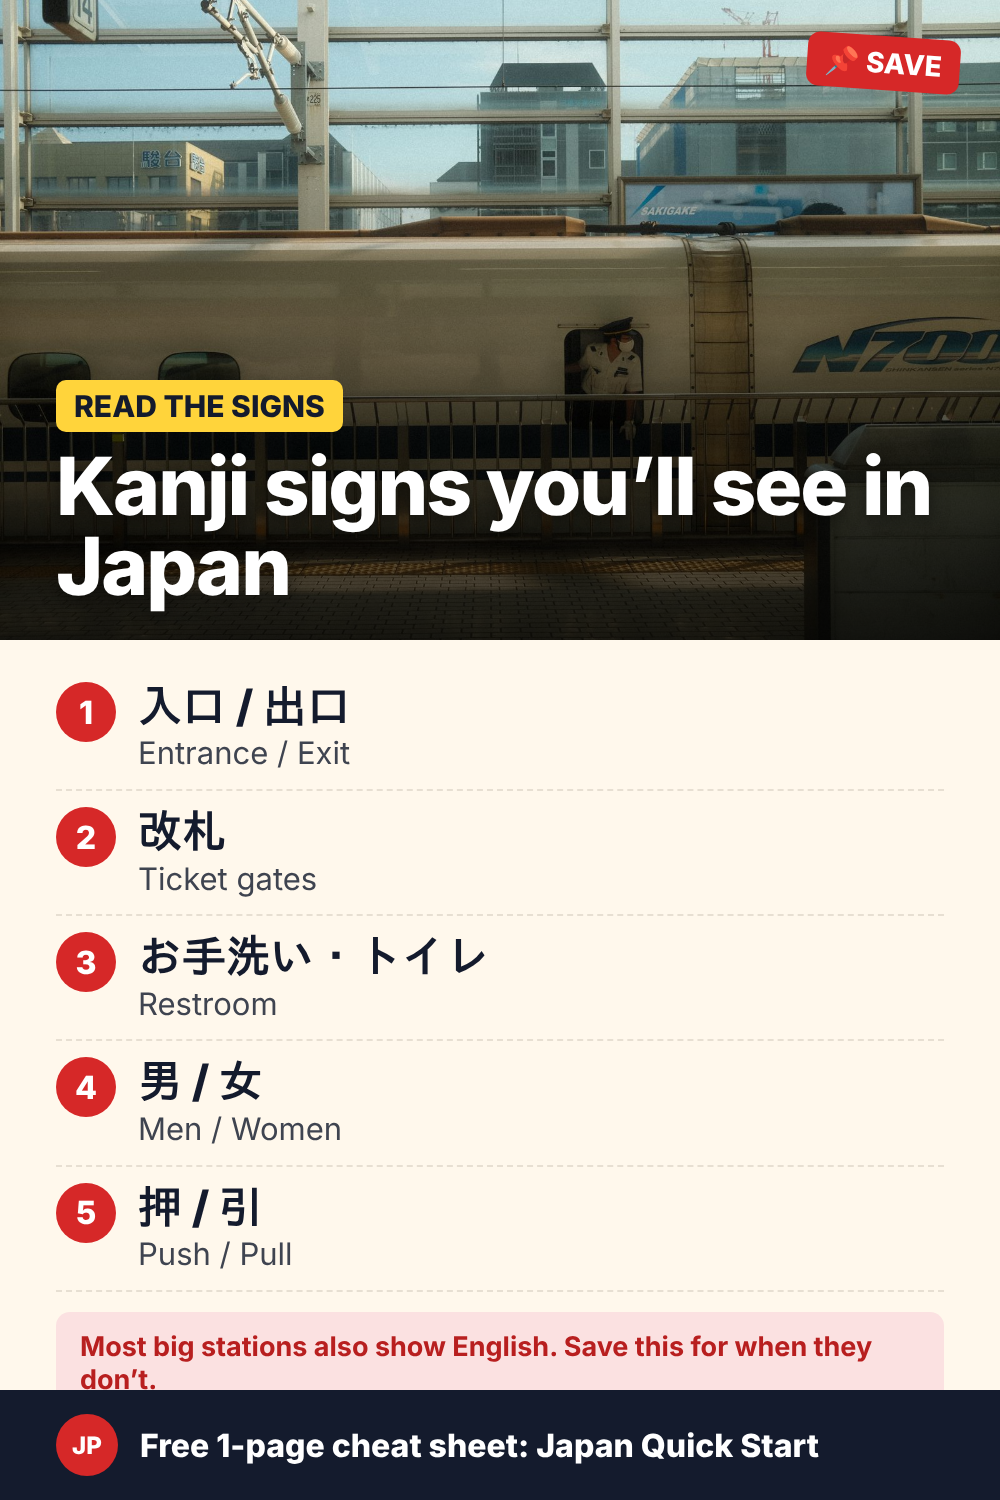
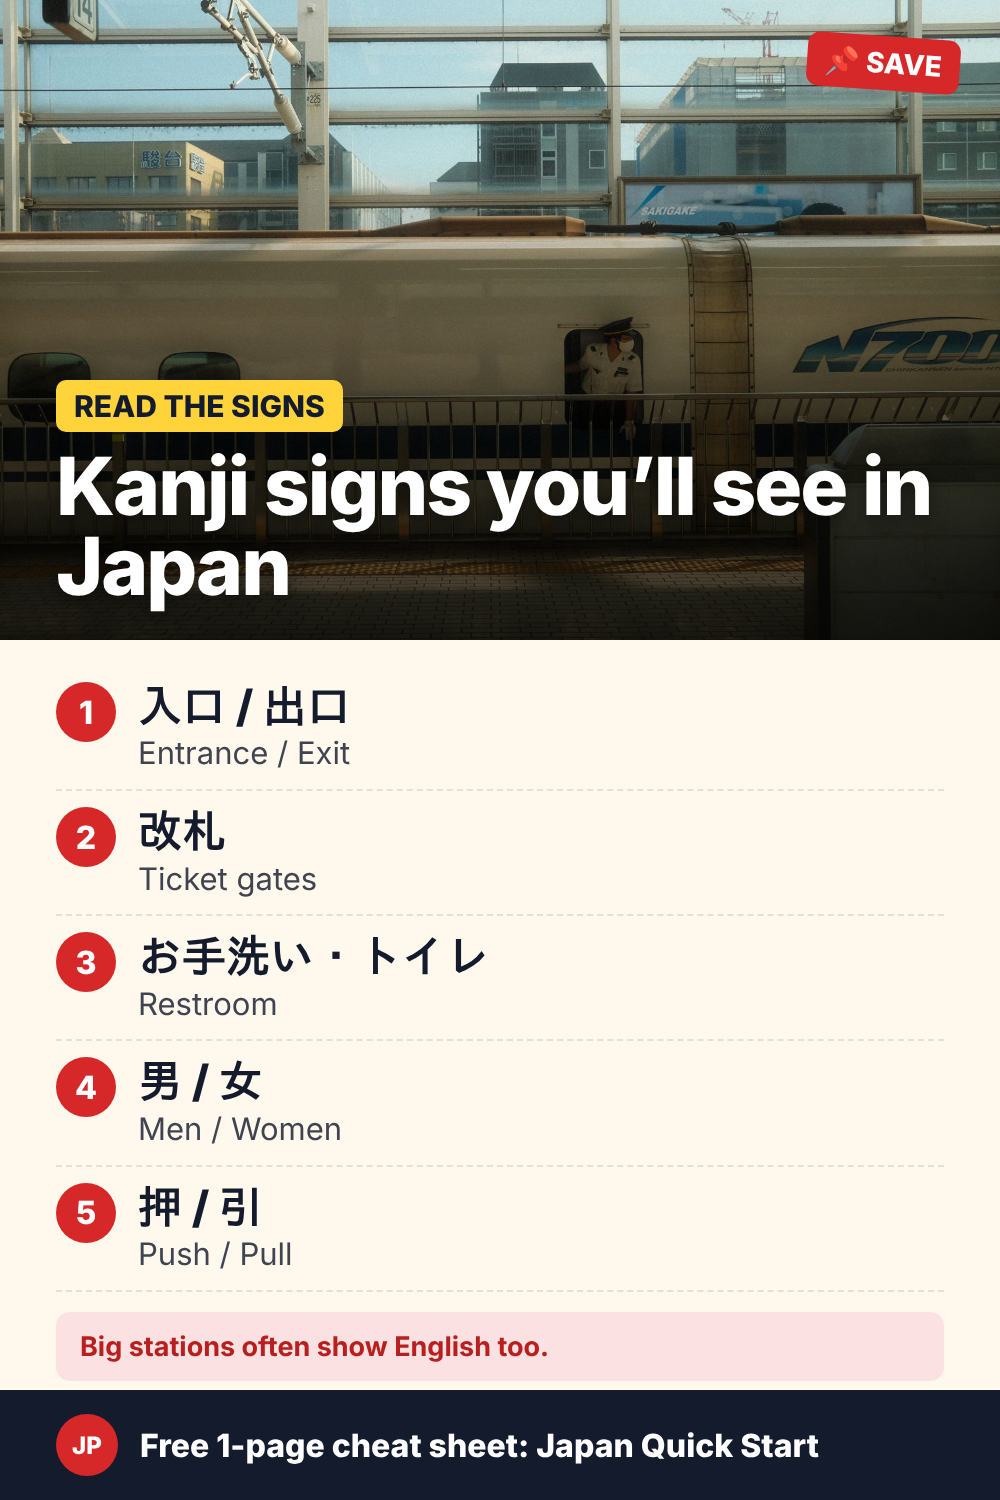
Fix kanji pin fit
Claude-Session: https://claude.ai/code/session_01TjagRrtcak9M1F67RG8mqZ

Changed region(s): [[0.062, 0.8893, 0.868, 0.9507]]

diff --git a/tools/build_photo_pins_1025.py b/tools/build_photo_pins_1025.py
@@ -11,7 +11,7 @@ PINS=[
    ('改札','Ticket gates'),
    ('お手洗い・トイレ','Restroom'),
    ('男 / 女','Men / Women'),
-   ('押 / 引','Push / Pull')],'Most big stations also show English. Save this for when they don’t.',FREE),
+   ('押 / 引','Push / Pull')],'Big stations often show English too.',FREE),
  ('pin-shrine-or-temple','px-31193736.jpg','center 55%','SHRINE OR TEMPLE?','How to tell them apart',[
    ('Torii gate?','A torii usually means a Shinto shrine.'),
    ('Incense smoke?','Common at Buddhist temples.'),
